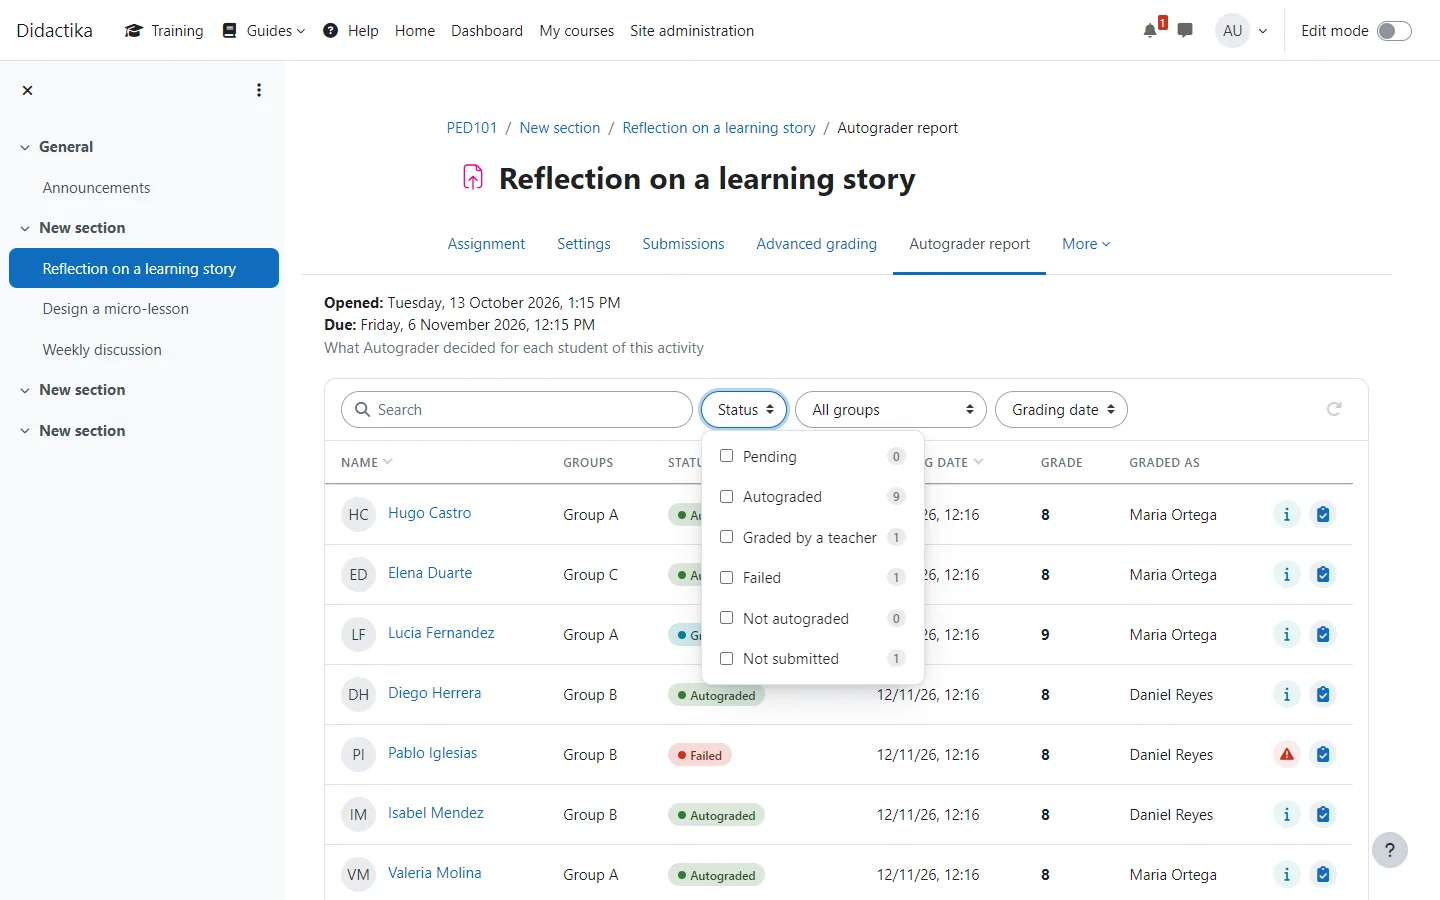
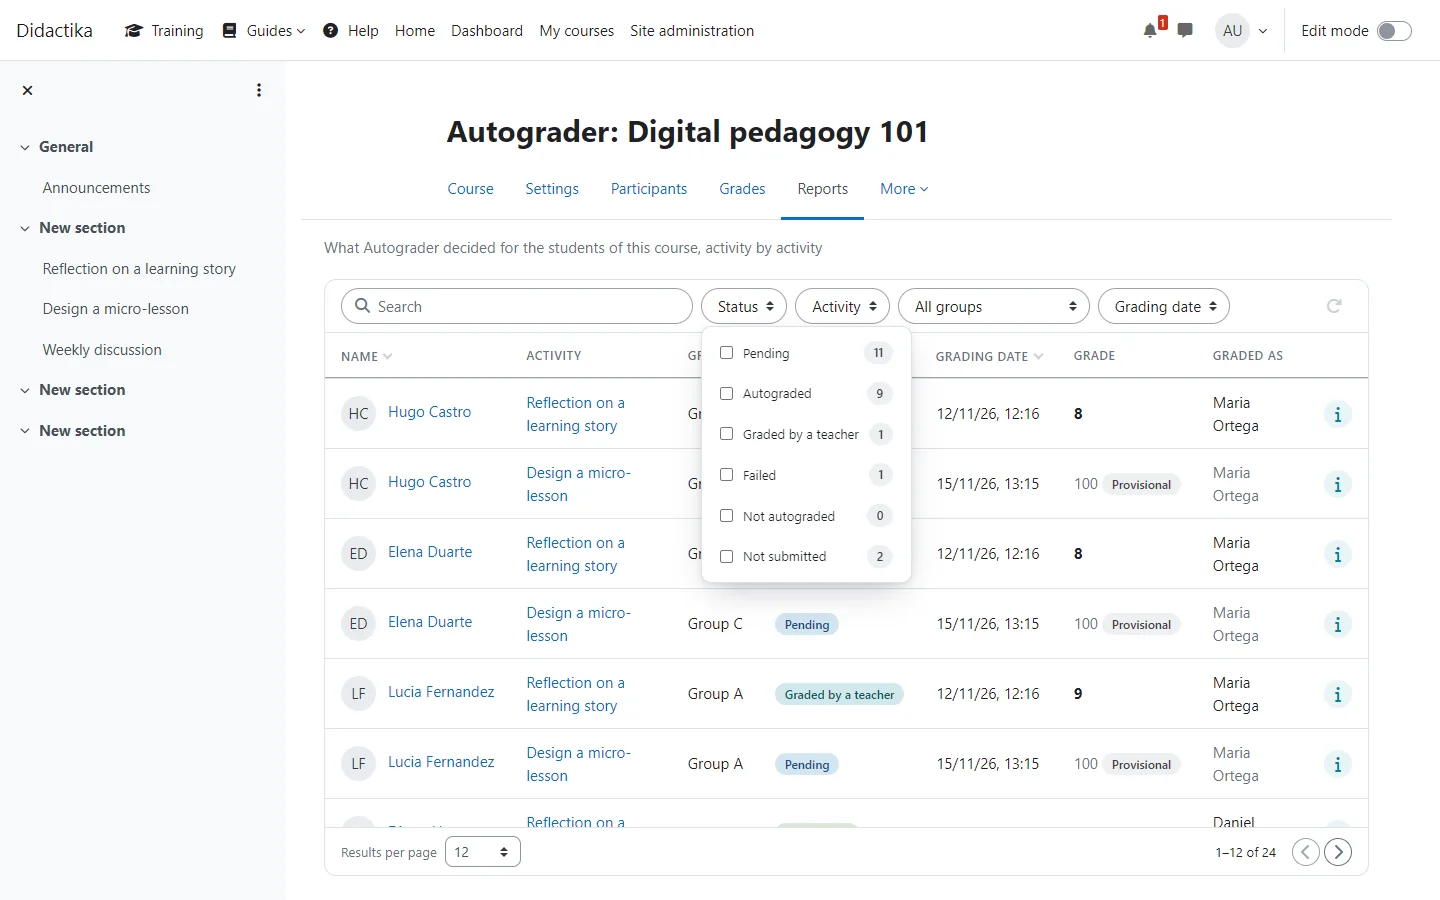
docs: screenshots and text of the new design; fix: the gaps on Bootstrap 4, the group of filters hidden until needed and Escape on Bootstrap 5

diff --git a/styles.css b/styles.css
@@ -1219,6 +1219,25 @@
         z-index: 2;
     }
 }
+/* stylelint-disable declaration-no-important */
+
+.arp .gap-1 {
+    gap: 0.25rem !important;
+}
+
+.arp .gap-2 {
+    gap: 0.5rem !important;
+}
+
+.arp .gap-3 {
+    gap: 1rem !important;
+}
+
+.arp .gap-4 {
+    gap: 1.5rem !important;
+}
+
+/* stylelint-enable declaration-no-important */
 
 .arp .btn.btn:focus:not(:focus-visible),
 .arp .btn.btn:active:focus:not(:focus-visible),

diff --git a/docs/es/technical/implementation/use-cases/narrowReport/README.md b/docs/es/technical/implementation/use-cases/narrowReport/README.md
@@ -24,6 +24,7 @@ Diseño: [README](../../../design/use-cases/narrowReport/README.md)
 | `search_filter_options` | servicio web | `classes/external/search_filter_options.php` | sí |
 | Menús de filtro y el botón que los quita | módulo AMD | `amd/src/ui/toolbar.js`, `templates/partials/filters.mustache` | sí |
 | Paginador | módulo AMD | `amd/src/ui/pagination.js`, `templates/pagination.mustache` | sí |
+| Campo de búsqueda que se vacía y selectores dibujados como menús | Módulos AMD | `amd/src/ui/search_clear.js`, `amd/src/ui/select_menu.js` | sí |
 
 ## Pruebas
 

diff --git a/docs/en/technical/implementation/use-cases/narrowReport/README.md b/docs/en/technical/implementation/use-cases/narrowReport/README.md
@@ -24,6 +24,7 @@ Design: [README](../../../design/use-cases/narrowReport/README.md)
 | `search_filter_options` | web service | `classes/external/search_filter_options.php` | yes |
 | Filter menus and the button that clears them | AMD module | `amd/src/ui/toolbar.js`, `templates/partials/filters.mustache` | yes |
 | Pager | AMD module | `amd/src/ui/pagination.js`, `templates/pagination.mustache` | yes |
+| Search field that empties and selects drawn as menus | AMD modules | `amd/src/ui/search_clear.js`, `amd/src/ui/select_menu.js` | yes |
 
 ## Tests
 
